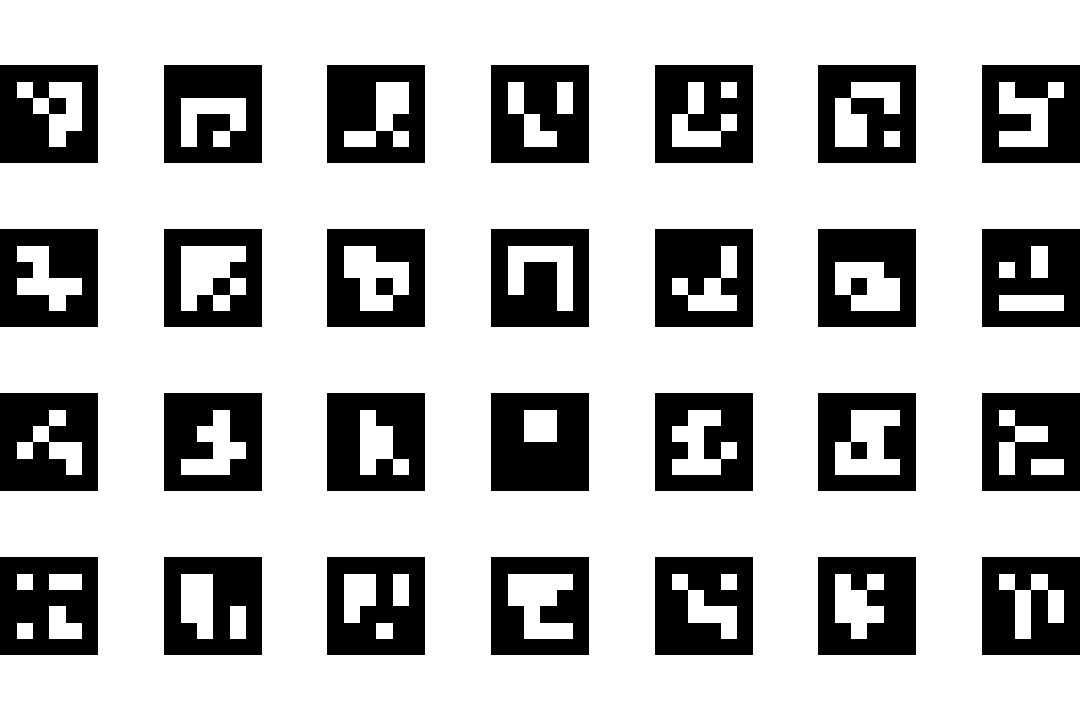
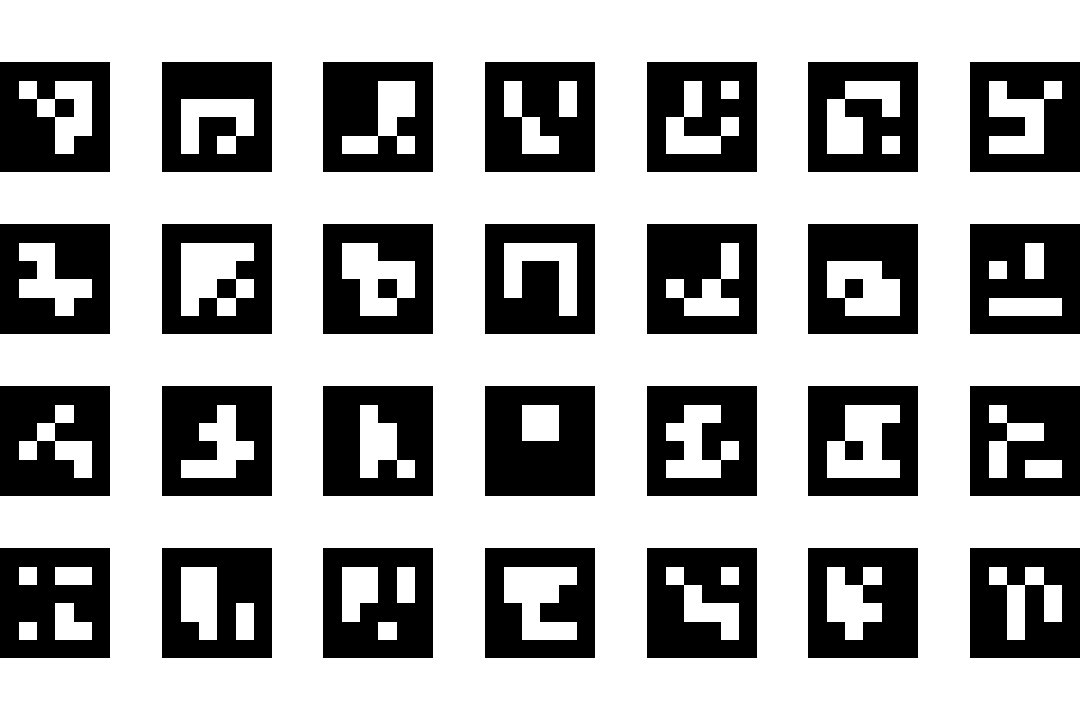
work on hrtf_training add new aruco boards

diff --git a/hrtf_training.py b/hrtf_training.py
@@ -11,13 +11,12 @@ data_dir = Path.cwd() / 'data'
 fs = 48828
 slab.set_default_samplerate(fs)
 
-# t_min: minimal pulse interval in ms
-# t_max: max pulse interval in ms
+# t_max: maximal pulse interval in ms
 # target_window: target window as euclidean distance of head pose from target speaker
 # time_on_target: time matching head direction required to finish a trial
 
-def hrtf_training(n_trials=10, t_min=0, t_max=600, target_window=6, target_time=0.5):
-    global speakers, pulse_train, offset
+def hrtf_training(n_trials=10, t_max=500, target_size=5, target_time=0.5):
+    global speakers, offset, _target_size, _target_time, _max_distance, _max_pulse_interval
     # initialize processors and cameras
     proc_list = [['RX81', 'RX8', data_dir / 'rcx' / 'play_buf_pulse.rcx'],
                  ['RX82', 'RX8', data_dir / 'rcx' / 'play_buf_pulse.rcx'],
@@ -33,12 +32,10 @@ def hrtf_training(n_trials=10, t_min=0, t_max=600, target_window=6, target_time=
     freefield.write(tag='goal_len', value=coin.n_samples, processors=['RX81', 'RX82'])
     # read list of speaker locations
     table_file = freefield.DIR / 'data' / 'tables' / Path(f'speakertable_dome.txt')
-    speakers = numpy.loadtxt(table_file, skiprows=1, usecols=(0, 3, 4),
-                                     delimiter=",", dtype=float)
-    # write parameters for pulse train
-    pulse_train = {'t_min': t_min, 't_max': t_max, 't_range': t_max - t_min,
-                    'max_dst': la.norm(numpy.min(speakers[:, 1:], axis=0) - [0, 0]),
-                    'target_window': target_window, 'target_time': target_time}
+    speakers = numpy.loadtxt(table_file, skiprows=1, usecols=(0, 3, 4), delimiter=",", dtype=float)
+    # pulse train parameters
+    _max_distance = la.norm(numpy.min(speakers[:, 1:], axis=0) - [0, 0])  # maximal distance from center speaker
+    _target_time, _target_size, _max_pulse_interval = target_time, target_size, t_max
     # generate trial sequence with target speaker locations
     trial_sequence = slab.Trialsequence(conditions=speakers[:, 0].astype(int), n_reps=1)
     offset = sensor.calibrate_sensor(report=True)
@@ -51,32 +48,27 @@ def hrtf_training(n_trials=10, t_min=0, t_max=600, target_window=6, target_time=
     print('end')
     return
 
+
 def play_trial(speaker_id):
     # generate stimuli and load to buffer
     freefield.write(tag='source', value=1, processors=['RX81', 'RX82'])
     stim = slab.Sound.pinknoise(duration=10.0)
     freefield.set_signal_and_speaker(signal=stim, speaker=speaker_id, equalize=True)
     target = speakers[speaker_id, 1:]
-    # get offset head pose at 0 az, 0 ele
-    # offset = numpy.zeros(2)
-    # offset = sensor.calibrate_sensor(report=True)
-    # offset[2] = aruco.calibrate_aruco(limit=0.5, report=True)
-    # start trial
     print('STARTING..\n TARGET| azimuth: %.1f, elevation %.1f' % (target[0], target[1]))
-    # time.sleep(2)
     compare_pose(target, offset)  # set initial isi based on pose-target difference
     freefield.play(kind='zBusA', proc='all')   # start playing pulse train
     count_down = False
     while True:
         diff = compare_pose(target, offset)  # set isi and return pose-target difference
-        if diff - pulse_train['target_window'] < 0:  # check if head pose is within target window
+        if diff - _target_size < 0:  # check if head pose is within target window
             if not count_down:  # start counting down time as longs as pose matches target
                 start_time = time.time()
                 count_down = True
             print('ON TARGET for %i sec' % (time.time() - start_time), end="\r", flush=True)
         else:
             start_time, count_down = time.time(), False  # reset timer if pose no longer matches target
-        if time.time() > start_time + pulse_train['target_time']:  # end trial if goal conditions are met
+        if time.time() > start_time + _target_time:  # end trial if goal conditions are met
             break
         else:
             continue
@@ -86,24 +78,24 @@ def play_trial(speaker_id):
         time.sleep(0.1)
 
 def compare_pose(target, offset):
-    # pose = numpy.zeros(2)
     pose = sensor.get_pose()
-    # pose[0] = aruco.get_pose()[0]
-
     if pose[0] != None and pose[1] != None:
         pose = pose - offset
-        diff = la.norm(pose - target)
-        # isi = isi_params['tmin'] + isi_params['trange'] * (numpy.log(diff/isi_params['max_dst']+0.05)+3)/3
+        dist = la.norm(pose - target) - _target_size  # distance of current head pose from target window
         # scale ISI with deviation of pose from sound source
-        interval = pulse_train['t_min'] + pulse_train['t_range'] *\
-                   (diff - pulse_train['target_window']) / pulse_train['max_dst']
+        interval_scale = (dist+1e-9)/_max_distance  # scale factor for pulse interval duration
+        # scale ISI with deviation of pose from sound source
+        interval = _max_pulse_interval * (numpy.log(interval_scale+0.05)+3)/3  # log scaling
+        # interval = _max_pulse_interval * numpy.sqrt((dist+1e-9)/_max_distance)  # square scaling
+        # interval = _max_pulse_interval * interval_scale  # linear scaling
         print('head pose: azimuth: %.1f, elevation: %.1f' % (pose[0], pose[1]), end="\r", flush=True)
     else:
-        diff = pulse_train['max_dst']
-        interval = pulse_train['t_max']
+        diff = _max_distance
+        interval = _max_pulse_interval
         print('no marker detected', end="\r", flush=True)
     freefield.write('interval', interval, processors=['RX81', 'RX82'])  # write isi to processors
     return diff
+
 
 if __name__ == "__main__":
     hrtf_training(n_trials=5)

diff --git a/head_tracking/cam_tracking/generate_board.py b/head_tracking/cam_tracking/generate_board.py
@@ -4,18 +4,17 @@ import time
 import os
 from pathlib import Path
 
-
 #generate small board for pose estimation
-aruco_dict = cv2.aruco.Dictionary_get(cv2.aruco.DICT_5X5_100)
+aruco_dict = cv2.aruco.Dictionary_get(cv2.aruco.DICT_4X4_100)
 board = cv2.aruco.GridBoard_create(
     markersX=7,
     markersY=4,
     markerLength=0.015,
-    markerSeparation=0.01,
+    markerSeparation=0.007,
     dictionary=aruco_dict)
 
 im=board.draw([1080,720])
-cv2.imwrite(str(Path.cwd() / 'head_tracking' / 'cam_tracking' / 'aruco_markers' / 'board_7_5x5_100_ts.png'), im)
+cv2.imwrite(str(Path.cwd() / 'head_tracking' / 'cam_tracking' / 'aruco_markers' / 'board_7_4x4_100_ts.png'), im)
 cv2.imshow('im',im)
 
 # calibration
